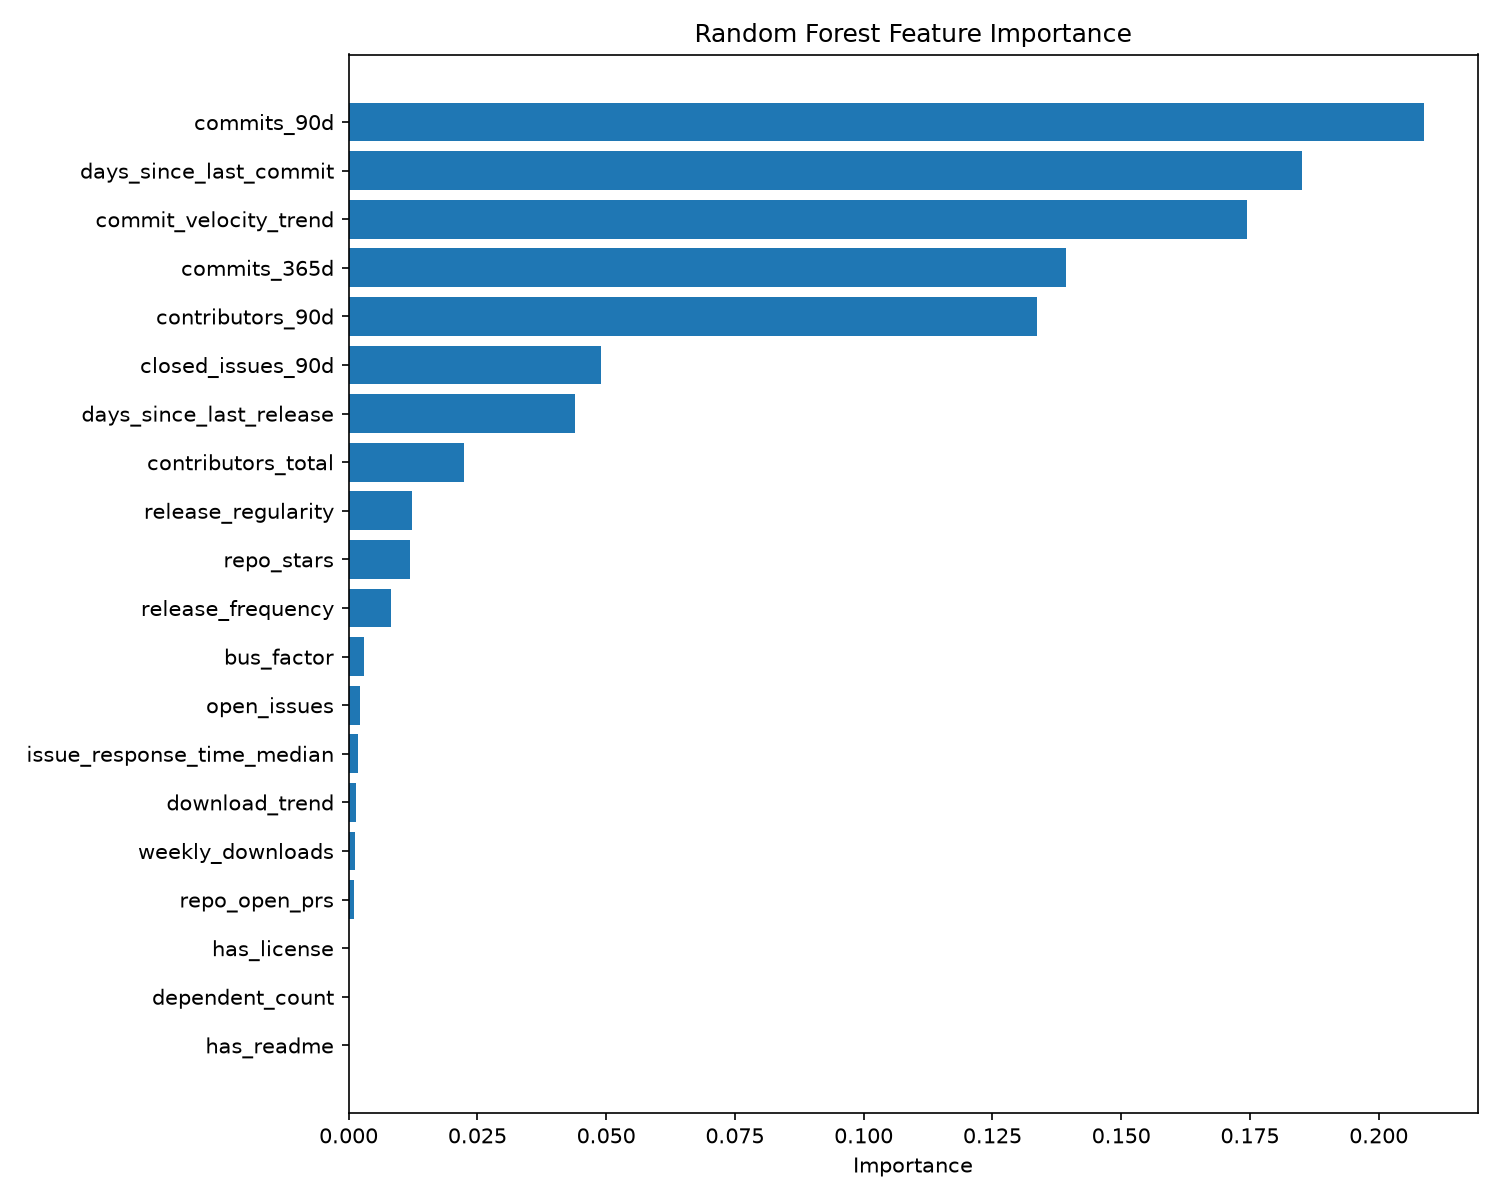
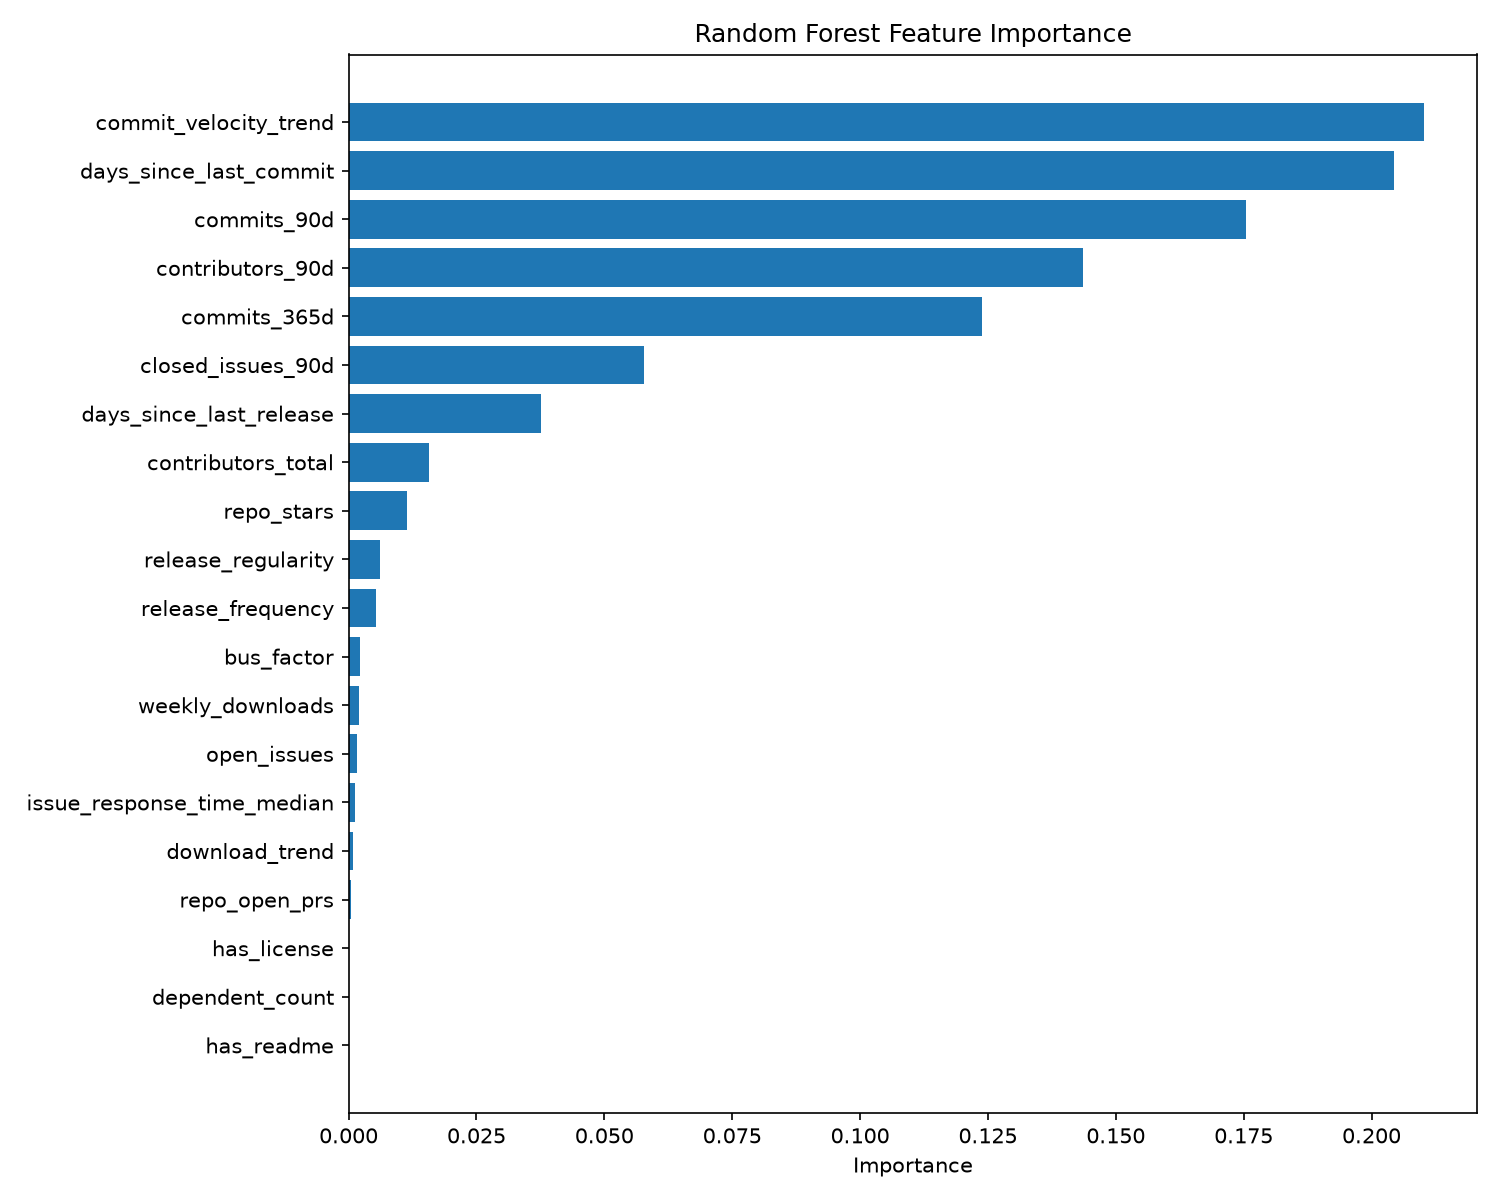
Retrain model on 1,725 packages (3.3x dataset increase)
- Data collection complete: 4,429 packages processed, 1,725 usable samples
- Model performance: F1 0.986, Accuracy 0.991, Precision 0.973, Recall 1.000
- Updated all references (README, Landing, Package page) to reflect new numbers
- Regenerated SHAP plots and feature importance with larger dataset

diff --git a/frontend/src/pages/Package.jsx b/frontend/src/pages/Package.jsx
@@ -121,7 +121,7 @@ export default function Package() {
       {/* Model Transparency */}
       <div className="border-t border-white/5 mt-8 pt-6 pb-12 text-center">
         <p className="text-slate-600 text-xs">
-          Prediction by RandomForestClassifier (200 trees) · Trained on 500+ npm packages · F1: 97.5% ·{' '}
+          Prediction by RandomForestClassifier (200 trees) · Trained on 1,725 npm packages · F1: 98.6% ·{' '}
           <a
             href="https://github.com/AaryamanBhardwaj/DepSafe/tree/main/model"
             target="_blank"

diff --git a/frontend/src/pages/Landing.jsx b/frontend/src/pages/Landing.jsx
@@ -27,7 +27,7 @@ const STEPS = [
       </svg>
     ),
     title: 'Random Forest Model',
-    desc: 'Trained on >500 real npm packages with historical maintenance data. 200-tree ensemble with balanced class weights. F1: 97.5%.',
+    desc: 'Trained on 1,725 real npm packages with historical maintenance data. 200-tree ensemble with balanced class weights. F1: 98.6%.',
     gradient: 'from-purple-500/20 to-purple-500/5',
     border: 'border-purple-500/20',
     text: 'text-purple-400',

diff --git a/README.md b/README.md
@@ -35,13 +35,13 @@ ML-powered npm dependency health scoring with explainable predictions. Paste a p
 
 ### Model Performance
 
-Trained on 500+ real npm packages labeled as maintained or abandoned based on commit recency, release activity, and archive status.
+Trained on 1,725 real npm packages labeled as maintained or abandoned based on commit recency, release activity, and archive status.
 
 | Metric | Score |
 |--------|-------|
-| F1 | 0.975 |
-| Accuracy | 0.981 |
-| Precision | 0.951 |
+| F1 | 0.986 |
+| Accuracy | 0.991 |
+| Precision | 0.973 |
 | Recall | 1.000 |
 
 ---
@@ -119,7 +119,7 @@ DepSafe/
 │   ├── collect_packages.py     # Curates ~4,429 npm packages from npms.io + npm registry
 │   ├── collect_features.py     # Fetches 20 features per package (GitHub + npm APIs)
 │   ├── train.py                # Trains RandomForest, generates SHAP plots, saves artifacts
-│   ├── dataset.csv             # Training dataset (500+ labeled packages)
+│   ├── dataset.csv             # Training dataset (1,725 labeled packages)
 │   ├── model.joblib            # Trained model artifact (not committed, generated by train.py)
 │   ├── model_meta.json         # Model metadata (features, metrics, training date)
 │   ├── evaluation_report.json  # Precision, recall, F1, confusion matrix
